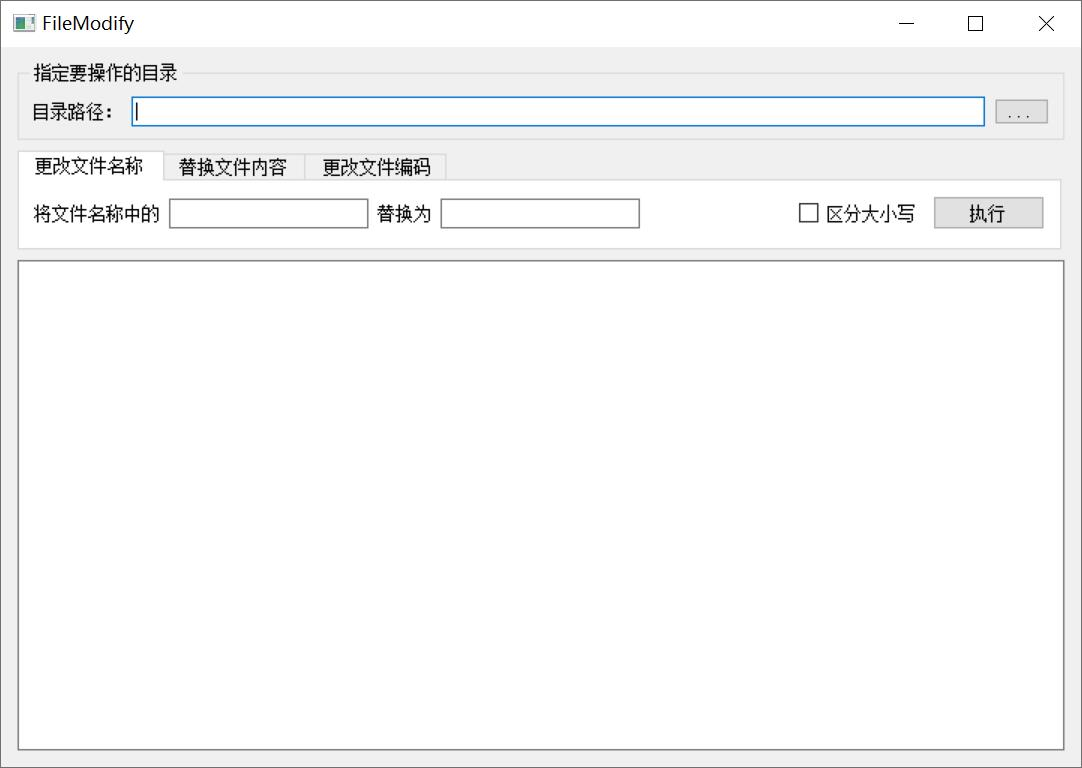
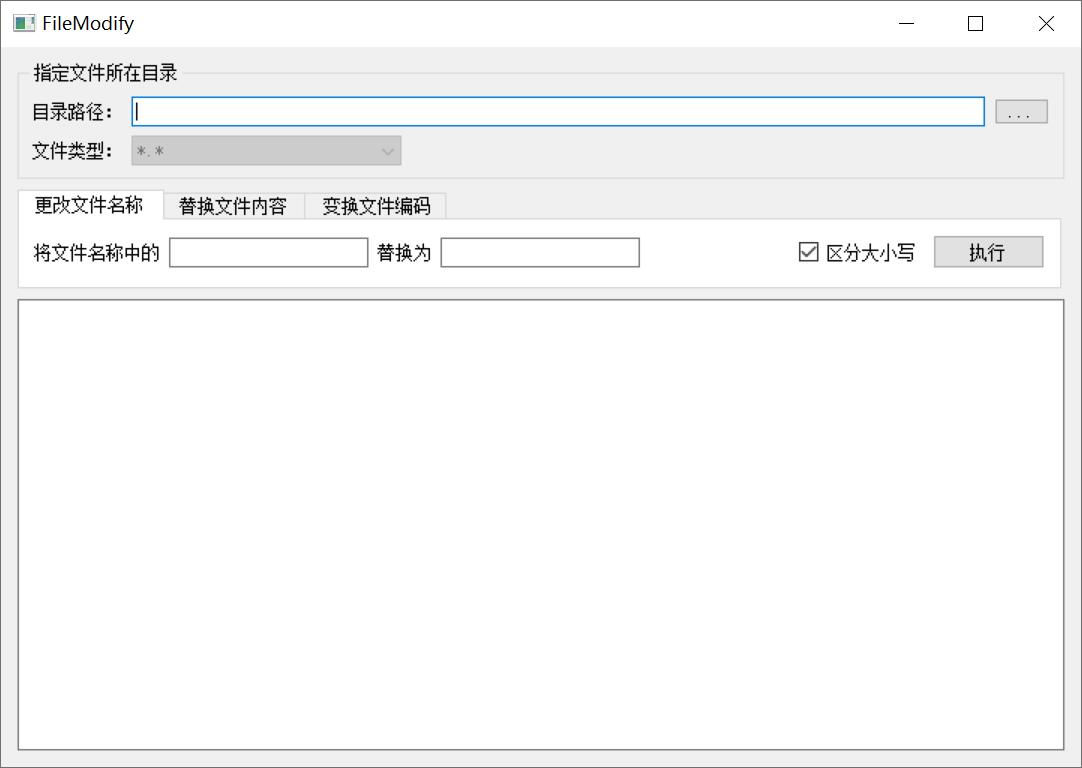
FileModify add file filter

Changed region(s): [[0.0305, 0.1562, 1.0, 0.4062], [0.061, 0.0625, 0.122, 0.125]]

diff --git a/FileModify/FileModify.py b/FileModify/FileModify.py
@@ -17,10 +17,14 @@ class FileModify(QWidget):
 
     @pyqtSlot()
     def on_btnPath_clicked(self):
-        dir = QFileDialog.getExistingDirectory(caption='指定要操作的目录')
+        dir = QFileDialog.getExistingDirectory(caption='指定文件所在目录', directory=self.linPath.text())
         if dir != '':
             self.linPath.setText(dir)
-    
+
+    @pyqtSlot(int)
+    def on_tabOper_currentChanged(self, index):
+        self.cmbType.setEnabled(index != 0)
+
     @pyqtSlot()
     def on_btnExecN_clicked(self):
         path = self.linPath.text()
@@ -59,6 +63,10 @@ class FileModify(QWidget):
     def replaceString(self, path, srcT, dstT, caseSensitive):
         for root, dirs, files in os.walk(path):
             for name in files:
+                _, ext = os.path.splitext(name)
+                filter = self.cmbType.currentText()
+                if filter != '*.*' and filter.find(ext) < 1: continue   # str.find('') == 0
+
                 fullpath = os.path.join(root, name)
                 try:
                     text = open(fullpath, 'r', encoding='gbk').read()
@@ -68,6 +76,7 @@ class FileModify(QWidget):
                         text = open(fullpath, 'r', encoding='utf-8').read()
                         encoding = 'utf-8'
                     except:
+                        self.txtInfo.append(f'{fullpath} read fail\n')
                         continue
 
                 if caseSensitive:
@@ -95,14 +104,23 @@ class FileModify(QWidget):
     def CodingConvert(self, path, srcC, dstC):
         for root, dirs, files in os.walk(path):
             for name in files:
+                _, ext = os.path.splitext(name)
+                filter = self.cmbType.currentText()
+                if filter != '*.*' and filter.find(ext) < 1: continue
+                
                 fullpath = os.path.join(root, name)
                 try:
-                    text = open(fullpath, 'r', encoding=srcC).read()
-                    open(fullpath, 'w', encoding=dstC).write(text)
+                    bstr = open(fullpath, 'rb').read()
+                    newbstr = bstr.decode(srcC).encode(dstC)
+                except:
+                    self.txtInfo.append(f'{fullpath} read fail\n')
+                    continue
+
+                if newbstr != bstr:
+                    os.chmod(fullpath, stat.S_IWRITE)
+                    open(fullpath, 'wb').write(newbstr)
 
                     self.txtInfo.append(f'{fullpath} encoding changed\n')
-                except:
-                    pass
 
 
 if __name__ == "__main__":
